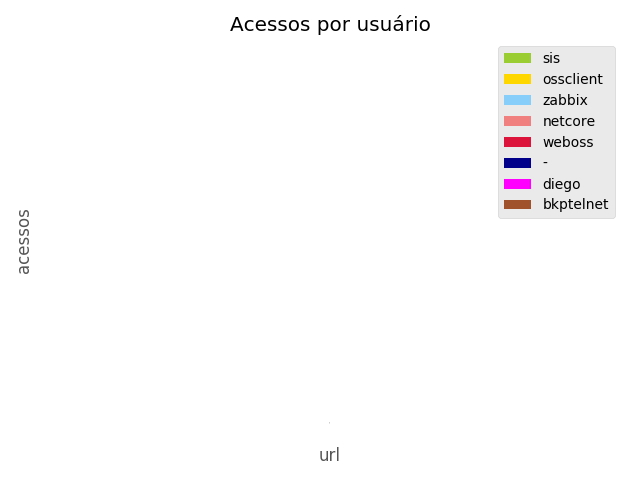
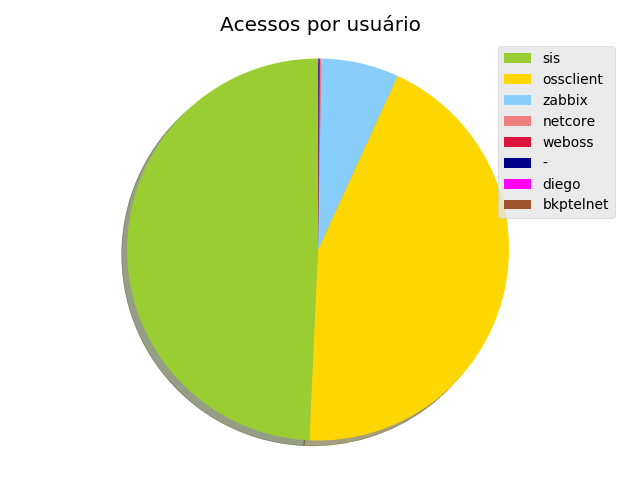
Inserido dataframe nos templates

diff --git a/templates/base.html b/templates/base.html
@@ -14,7 +14,7 @@
         <nav class="navbar navbar-dark fixed-top bg-dark flex-md-nowrap p-0 shadow">
             <a class="navbar-brand col-sm-3 col-md-2 mr-0" href="home">NetStats</a>
         </nav>
-        <div class="container-fluid">
+        <div class="container">
             <div class="row">
                 <nav class="col-md-2.5 d-none d-md-block bg-light sidebar">
                     <div class="sidebar-sticky">
@@ -29,7 +29,44 @@
                                 <i class="fas fa-search"></i>
                                 <span>Pesquisar Fsan</span></a>
                             </li>
-                            <li class="nav-item">
+                            <li class="nav-item dropdown">
+                                <a class="nav-link dropdown-toggle" href="#" id="pagesDropdown" role="button" data-toggle="dropdown" aria-haspopup="true" aria-expanded="false">
+                                    <i class="fas fa-chart-line"></i>
+                                    <span>Estatísticas de Acesso</span>
+                                </a>
+                                <div class="dropdown-menu" aria-labelledby="pagesDropdown">
+                                    <a class="dropdown-item left-menu-item" href="acessos_por_usuario">Acessos por Usuário</a>
+                                    <a class="dropdown-item left-menu-item" href="acessos_por_url">Acessos por URL</a>
+                                    <a class="dropdown-item left-menu-item" href="status_code">Status Code</a>
+                                </div>
+                            </li>
+                            <li class="nav-item dropdown">
+                                <a class="nav-link dropdown-toggle" href="#" id="pagesDropdown" role="button" data-toggle="dropdown" aria-haspopup="true" aria-expanded="false">
+                                    <i class="fas fa-chart-line"></i>
+                                    <span>Estatísticas de Operações</span>
+                                </a>
+                                <div class="dropdown-menu" aria-labelledby="pagesDropdown">
+                                    <a class="dropdown-item left-menu-item" href="percentual_sucesso">Percentual de Sucesso</a>
+                                    <a class="dropdown-item left-menu-item" href="sucesso_por_operacao">Sucesso por Operação</a>
+                                    <a class="dropdown-item left-menu-item" href="erros_por_operacao">Erros por Operação</a>
+                                </div>
+                            </li>
+                        </ul>
+                    </div>
+                </nav>
+                <main role="main" class="col-md-9 ml-sm-auto col-lg-10 px-4" style="margin-top: 10%">
+                    {% block content %}
+                    {% endblock content %}
+                </main>
+            <div>
+        </div>
+    </body>
+</html>
+
+
+
+<!--
+<li class="nav-item">
                                 <a class="nav-link" href="acessos_por_usuario">
                                 <i class="fas fa-chart-pie"></i>
                                 <span>Acessos por Usuário</span></a>
@@ -44,14 +81,4 @@
                                 <i class="fas fa-chart-pie"></i>
                                 <span>Status Code<span></a>
                             </li>
-                        </ul>
-                    </div>
-                </nav>
-                <main role="main" class="col-md-9 ml-sm-auto col-lg-10 px-4" style="margin-top: 10%">
-                    {% block content %}
-                    {% endblock content %}
-                </main>
-            <div>
-        </div>
-    </body>
-</html>
+-->

diff --git a/templates/percentual_sucesso.html b/templates/percentual_sucesso.html
@@ -5,8 +5,7 @@
         <div class="row justify-content-center">
             <div class="col-md-12">
                 <form>
-                    {{ data | safe }}
-                    <img src="static/acessos_por_usuario.png" height="600" width="800">
+                    <img src="static/percentual_sucesso.png">
                 </form>
             </div>
         </div>

diff --git a/templates/sucesso_por_operacao.html b/templates/sucesso_por_operacao.html
@@ -5,8 +5,7 @@
         <div class="row justify-content-center">
             <div class="col-md-12">
                 <form>
-                    {{ data | safe }}
-                    <img src="static/acessos_por_usuario.png" height="600" width="800">
+                    <img src="static/operacao_sucesso.png">
                 </form>
             </div>
         </div>

diff --git a/templates/operacao_error.html b/templates/operacao_error.html
@@ -5,8 +5,7 @@
         <div class="row justify-content-center">
             <div class="col-md-12">
                 <form>
-                    {{ data | safe }}
-                    <img src="static/acessos_por_usuario.png" height="600" width="800">
+                    <img src="static/operacao_error.png">
                 </form>
             </div>
         </div>

diff --git a/templates/acessos_por_url.html b/templates/acessos_por_url.html
@@ -5,6 +5,7 @@
         <div class="row justify-content-center">
             <div class="col-md-12">
                 <form>
+                    {{ data | safe }}
                     <img src="static/acessos_por_url.png">
                 </form>
             </div>

diff --git a/templates/status_code.html b/templates/status_code.html
@@ -5,6 +5,7 @@
         <div class="row justify-content-center">
             <div class="col-md-12">
                 <form>
+                    {{ data | safe }}
                     <img src="static/status_code.png">
                 </form>
             </div>

diff --git a/netstats.py b/netstats.py
@@ -1,11 +1,9 @@
 import os
-from flask import Flask, render_template, request
 import pandas as pd
 import seaborn as sns
+from flask import Flask, render_template, request
 from matplotlib import pyplot as plt
 plt.style.use('ggplot')
-
-app = Flask(__name__)
 
 
 """ACCESS"""
@@ -15,6 +13,7 @@ logs.drop('fora', inplace=True, axis=1)
 
 #Acessos por Usuário
 def acesso_por_usuario():
+
     acessos_por_usuario = logs.usuario.value_counts().to_frame().reset_index()
     acessos_por_usuario.columns = ['Usuario', 'Acessos']
 
@@ -29,33 +28,45 @@ def acesso_por_usuario():
     plt.tight_layout()
     plt.savefig('static/acessos_por_usuario.png')
 
+    global data_acesso_por_usuario
+    data_acesso_por_usuario = acessos_por_usuario.head().to_html()
+
 
 #Acessos por URL
 def acesso_por_url():
+
     urls = logs.url.value_counts().to_frame().reset_index()
     urls.columns = ['url', 'acessos']
 
-    x = urls.loc[(urls['acessos'] >= 100)].url
+    x = urls.loc[(urls['acessos'] >= 200)].url
     y = urls.acessos
 
     plt.figure()
     plt.xticks(rotation=80)
     plt.title('URLs mais acessadas')
     graf_url = sns.barplot(x=x, y=y, palette='GnBu_d')
+    plt.tight_layout()
     fig = graf_url.get_figure()
-    fig.savefig('static/acessos_por_url.png')
+    fig.savefig('static/acessos_por_url.png', dpi=300, bbox_inches='tight')
+
+    global data_acesso_por_url
+    data_acesso_por_url = urls.head().to_html()
 
 
 #Status Code
 def status_code():
+
     status = logs.status_code.value_counts().to_frame().reset_index()
     status.columns = ['Code', 'Frequencia']
-#    plt.figure(figsize=(10, 10))
+    plt.figure(figsize=(15, 15))
     plt.title('Status Code')
-    graf_cod = sns.barplot(x=status['Code'].astype(int), y=status['Frequencia'])
+    plt.tight_layout()
+    graf_cod = sns.barplot(x=status['Code'].astype(int), y=status['Frequencia'], hue=status.Code.astype(int))
     fig = graf_cod.get_figure()
     fig.savefig('static/status_code.png')
-#hue=status.Code.astype(int)
+
+    global data_status_code
+    data_status_code = status.head().to_html()
 
 
 """ ERROR """
@@ -294,6 +305,9 @@ def erros_por_operacao():
     plt.savefig('static/operacao_error.png')
 
 
+app = Flask(__name__)
+
+
 #Exclui as imagens geradas e retorna o template inicial
 @app.route('/')
 @app.route('/home')
@@ -327,7 +341,7 @@ def rota_acesso_por_usuario():
     while True:
         try:
             if os.path.exists(imagem):
-                return render_template('acessos_por_usuario.html')
+                return render_template('acessos_por_usuario.html', data=data_acesso_por_usuario)
             else:
                 acesso_por_usuario()
         except:
@@ -339,7 +353,7 @@ def rota_acesso_por_url():
     imagem = 'static/acessos_por_url.png'
     while True:
         if os.path.exists(imagem):
-            return render_template('acessos_por_url.html')
+            return render_template('acessos_por_url.html', data=data_acesso_por_url)
         else:
             acesso_por_url()
 
@@ -349,16 +363,41 @@ def rota_status_code():
     imagem = 'static/status_code.png'
     while True:
         if os.path.exists(imagem):
-            return render_template('status_code.html')
+            return render_template('status_code.html', data=data_status_code)
         else:
             status_code()
 
-'''
+
 #error
+@app.route('/percentual_sucesso')
 def rota_percentual_sucesso():
+    imagem = 'static/percentual_sucesso.png'
+    while True:
+        if os.path.exists(imagem):
+            return render_template('percentual_sucesso.html')
+        else:
+            percentual_sucesso()
+
+
+@app.route('/sucesso_por_operacao')
 def rota_sucesso_por_operacao():
+    imagem = 'static/operacao_sucesso.png'
+    while True:
+        if os.path.exists(imagem):
+            return render_template('sucesso_por_operacao.html')
+        else:
+            sucesso_por_operacao()
+
+
+@app.route('/erros_por_operacao')
 def rota_erros_por_operacao():
-'''
+    imagem = 'static/operacao_error.png'
+    while True:
+        if os.path.exists(imagem):
+            return render_template('operacao_error.html')
+        else:
+            erros_por_operacao()
+
 
 if __name__ == '__main__':
     app.run(debug=True)
